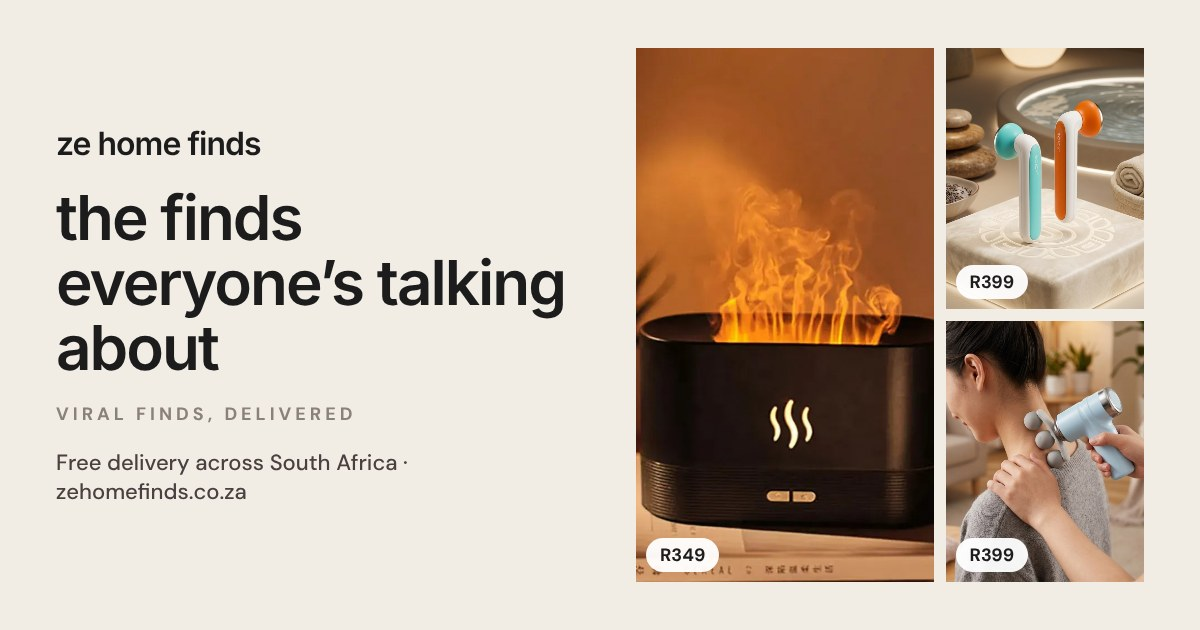
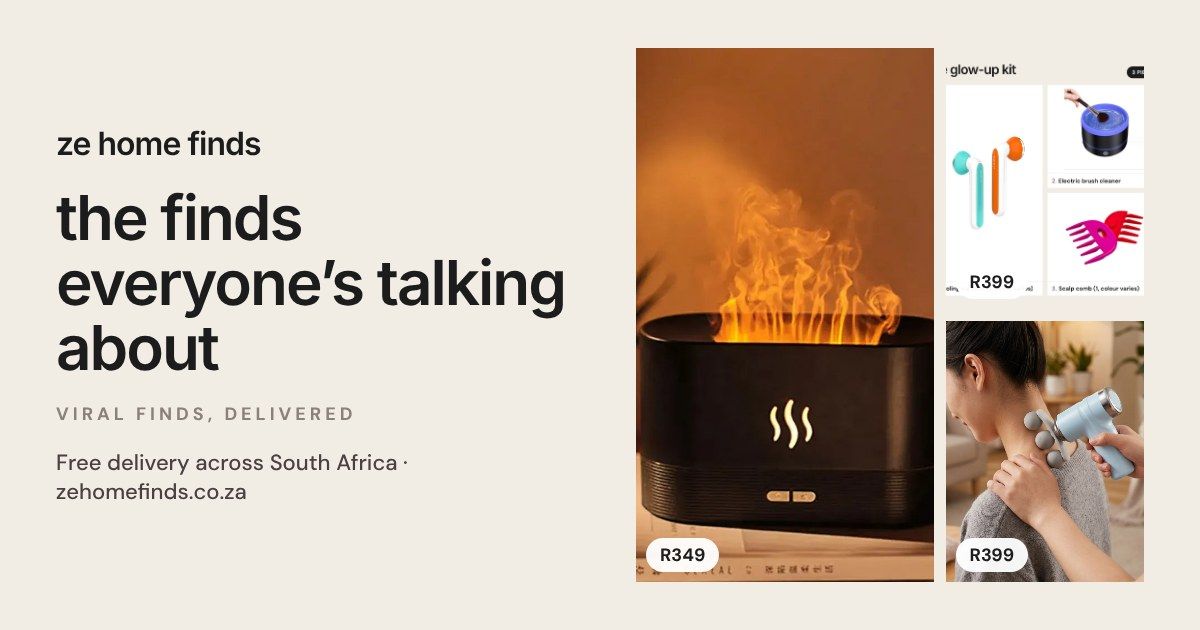
Kit cover images showing all three items; keep R500 capitalised in nav
- npm run kit-covers renders a 3-piece cover per bundle (one of each,
  colours may vary) used as the first image, so a kit never looks like a
  single product (owner spotted the Glow-Up Kit showing only the roller)
- Desktop nav lowercases labels in code so "gifts under R500" no longer
  renders as "r500"

Claude-Session: https://claude.ai/code/session_01FCcpfGcczM94CSNWagbhp4

Changed region(s): [[0.7708, 0.0603, 0.9558, 0.5127]]

diff --git a/src/components/Navbar.tsx b/src/components/Navbar.tsx
@@ -13,6 +13,9 @@ const NAV = [
   { label: 'Gifts under R500', href: '/guides/gifts-under-r500-south-africa' },
 ]
 
+// Lowercase look for the desktop nav, but keep prices as "R500", not "r500"
+const lowerLabel = (label: string) => label.toLowerCase().replace(/\br(?=\d)/g, 'R')
+
 export default function Navbar() {
   const [menuOpen, setMenuOpen] = useState(false)
   const itemCount = useCart((state) => state.items.reduce((sum, item) => sum + item.quantity, 0))
@@ -36,10 +39,10 @@ export default function Navbar() {
           </Link>
 
           {/* Desktop nav */}
-          <nav className="hidden lg:flex items-center gap-6 font-body text-charcoal-light lowercase" style={{ fontSize: '14px' }}>
+          <nav className="hidden lg:flex items-center gap-6 font-body text-charcoal-light" style={{ fontSize: '14px' }}>
             {NAV.map(({ label, href }) => (
               <Link key={href} href={href} className="hover:text-charcoal hover:underline underline-offset-4 transition-colors">
-                {label}
+                {lowerLabel(label)}
               </Link>
             ))}
           </nav>

diff --git a/src/lib/catalog.ts b/src/lib/catalog.ts
@@ -16,6 +16,6 @@ export { products }
 
 // Second real product photo (skips the branded benefit/how-it-works/compare cards),
 // used as the hover image on product cards.
-const CARD_IMAGES = ['/benefits.', '/how-it-works.', '/compare.']
+const CARD_IMAGES = ['/benefits.', '/how-it-works.', '/compare.', '/cover.']
 export const hoverPhoto = (p: Product) =>
   p.images.slice(1).find((img) => !CARD_IMAGES.some((c) => img.includes(c)))
